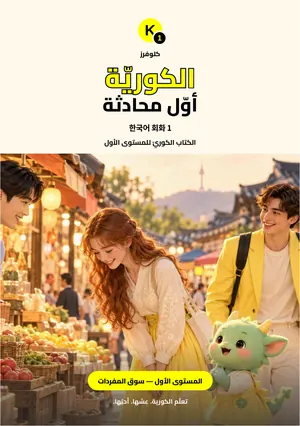
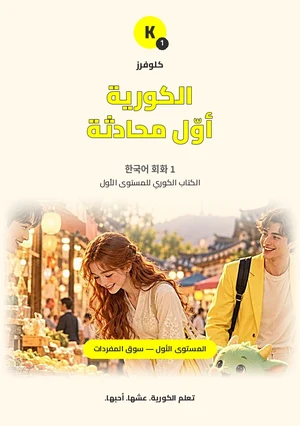
Restyle all book covers to the unified template, fix Arabic stroke-merge bug
Replaces every teaching/store/free book cover with the unified design:
identical logo/badge/title/photo-panel layout across all books, smooth
analytic melt-mask fade (no more hard seam between photo and cream
background), auto-shrinking title font so long titles never crowd the
edges, and a fix for an Arabic stroke-width bug that made adjacent
glyphs blob together on the hangul-starter title.

- Adds English edition of the free Hangeul starter sheet cover
  (cover_hangul_starter_en.jpg), registered in the picture library.
- Regenerates every derived asset: book-covers/*.webp thumbnails and
  the /shop hangul-starter covers, from the same new masters in
  public/picture-library/scenes.

Claude-Session: https://claude.ai/code/session_015xew6yhBJYtLFW24khR685

diff --git a/src/constants/pictureLibrary.ts b/src/constants/pictureLibrary.ts
@@ -48,7 +48,8 @@ export const LIBRARY_SCENES: LibraryScene[] = [
   { file: "cover_a0_ar", label: "غلاف الهانغُل من الصفر: عربي" },
   { file: "cover_b1", label: "غلاف كتاب ١: سوق المفردات" },
   { file: "cover_a0_en", label: "غلاف الهانغُل من الصفر: إنجليزي" },
-  { file: "cover_hangul_starter", label: "غلاف ورقة الهانغُل المجانية" },
+  { file: "cover_hangul_starter", label: "غلاف ورقة الهانغُل المجانية: عربي" },
+  { file: "cover_hangul_starter_en", label: "غلاف ورقة الهانغُل المجانية: إنجليزي" },
   { file: "cover_trial_ar", label: "غلاف دليل الحصة التجريبية: عربي" },
   { file: "cover_trial_en", label: "غلاف دليل الحصة التجريبية: إنجليزي" },
   // Lesson opener scenes (1 Oct 2026). Each lesson has its own opener
